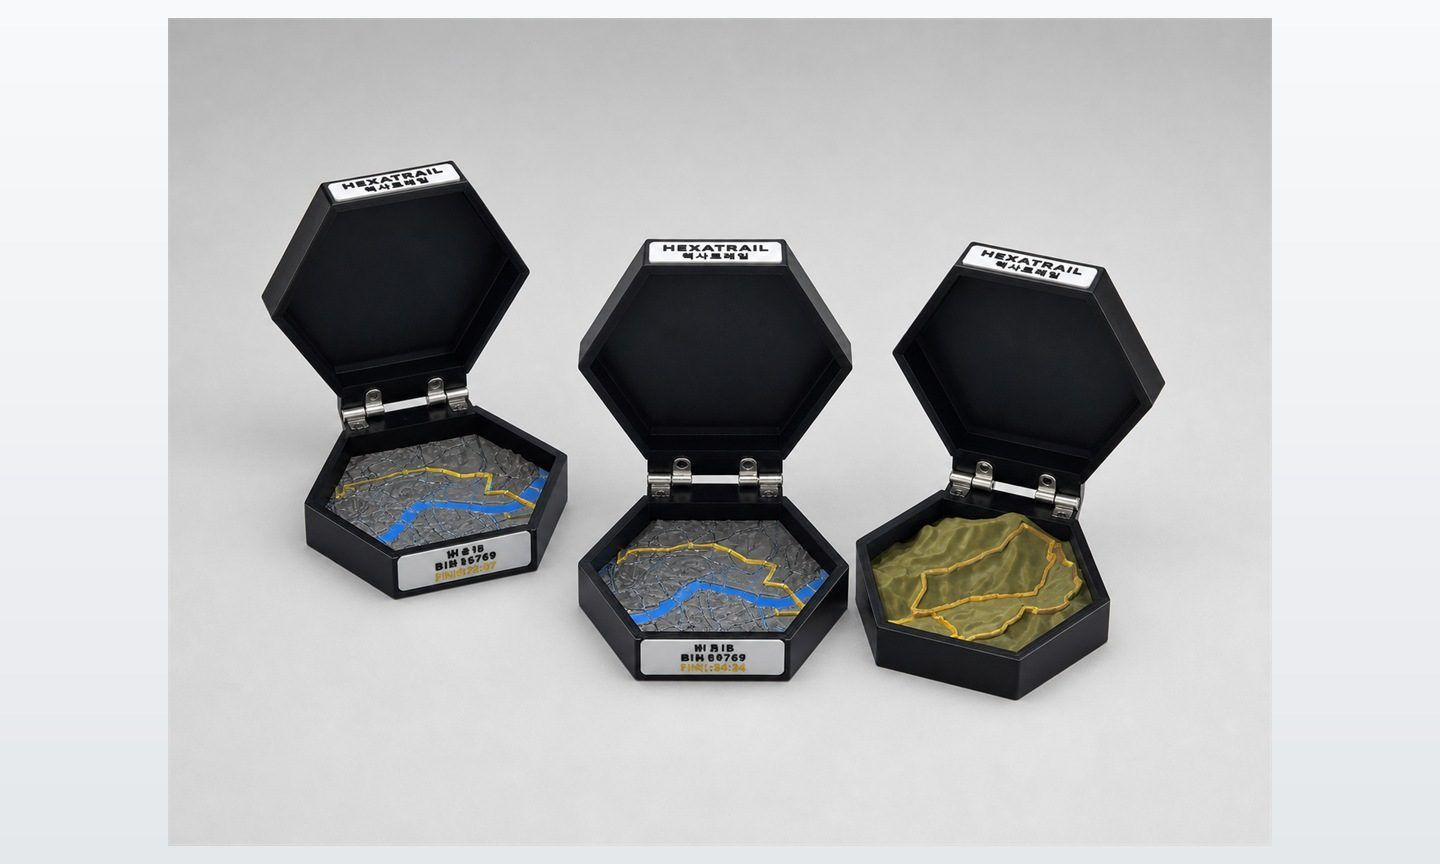
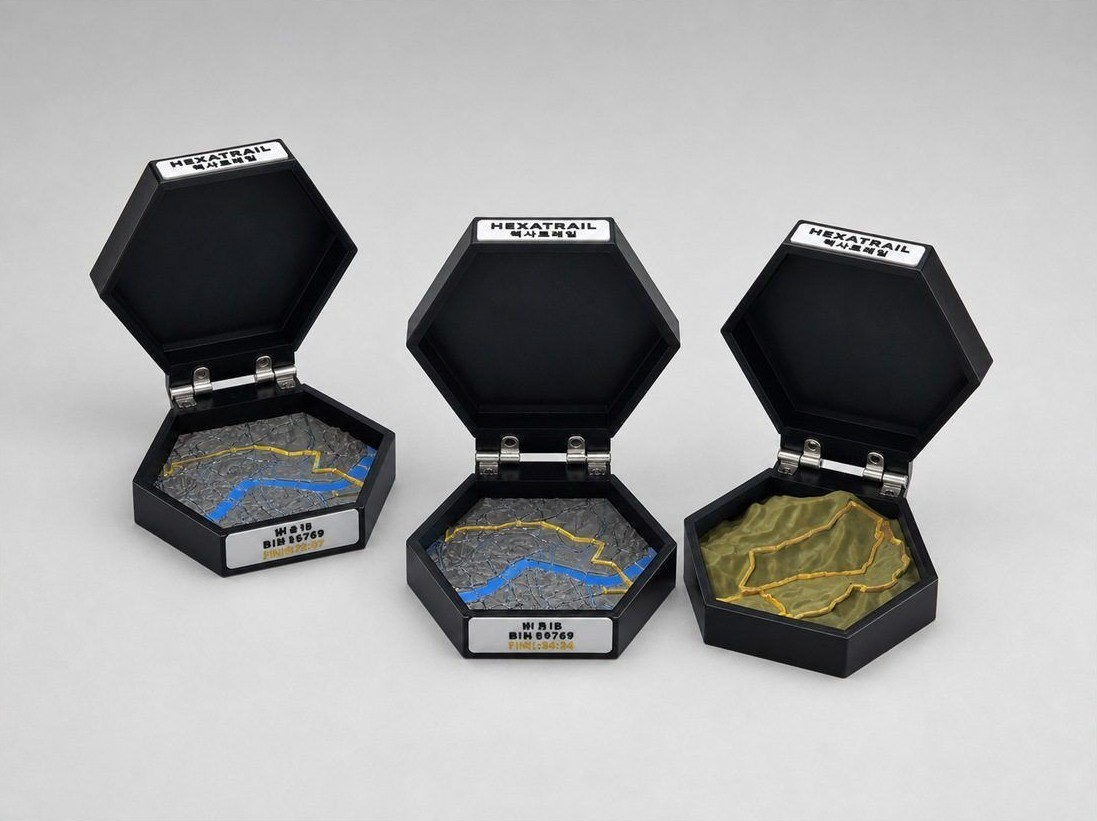
[Claude] 홈 Work 02 메달케이스 3개 사진 흰 여백 제거
Claude-Session: https://claude.ai/code/session_01DBwbgZqLQDFgJ6VR8EjHSJ

diff --git a/index.html b/index.html
@@ -100,7 +100,7 @@
         </div>
         <div class="pic">
           <picture>
-            <source media="(min-width: 900px)" srcset="img/hex_group.jpg">
+            <source media="(min-width: 900px)" srcset="img/hex_group.jpg?v=2">
             <img src="img/hex_case.jpg" alt="메달을 넣고 연 메달케이스" width="1050" height="1400" loading="lazy">
           </picture>
         </div>
